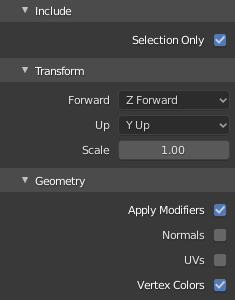
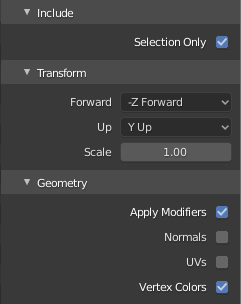
:memo: Readme > Fix PLY forward direction

diff --git a/readme.md b/readme.md
@@ -50,7 +50,7 @@ npm run build
 
 #### Geometry
 
-- Import the model in Blender
+- Import the OBJ in Blender with default settings
 - Merge vertices by distance
 - Rotate the scene (Z positive = up, Y positive = forward)
 - Fix incorrect areas (floor, ceiling, reflections)
@@ -65,7 +65,7 @@ npm run build
 python3 optimise.py --path ./example.ply
 
 # Change float precision (default: 9)
-python3 optimise.py --path ./example.ply --precision 4
+python3 optimise.py --path ./example.ply --precision 5
 
 # Remove some points (default: 1)
 python3 optimise.py --path ./example.ply --reduce 0.5
